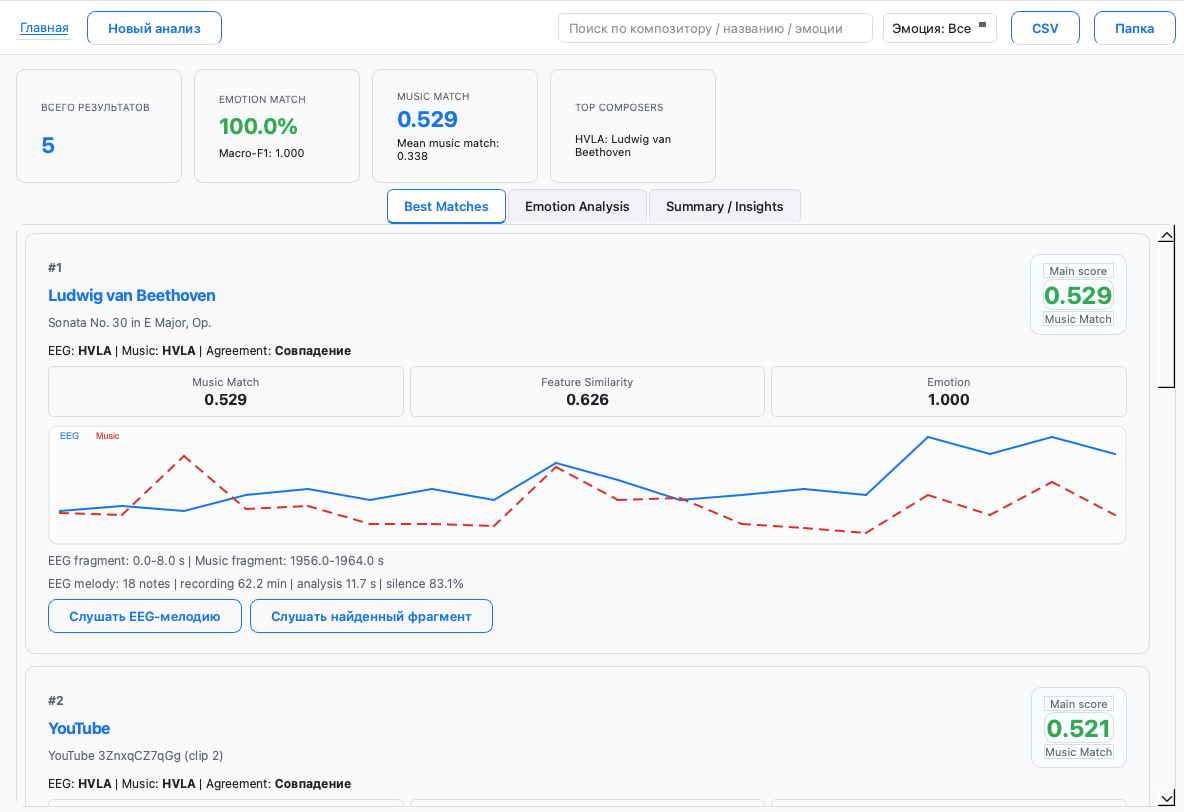
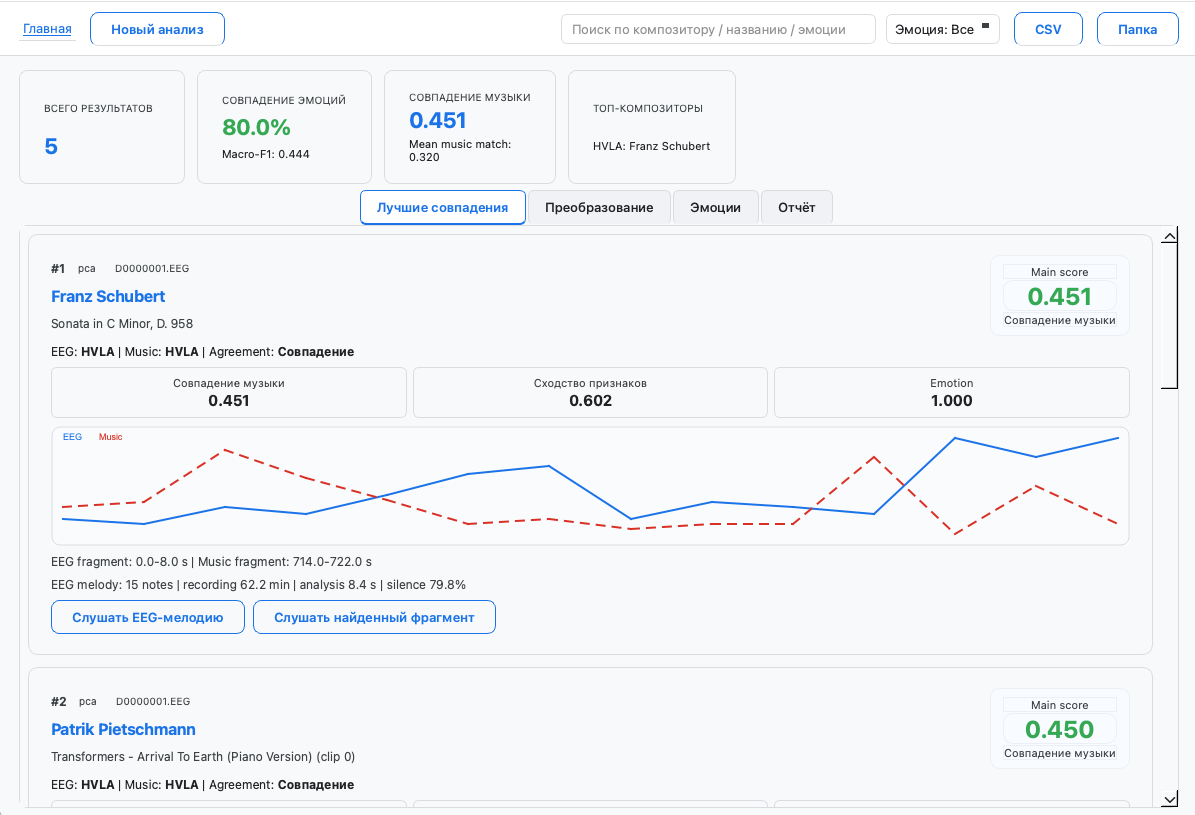
added new screenshots

diff --git a/README.md b/README.md
@@ -232,6 +232,7 @@ runs/run_018/
 
 ![Upload / Start](docs/images/upload-start.png)
 ![Best Matches](docs/images/best-matches.png)
+![Transformations](docs/images/preobr.png)
 ![Emotion Analysis](docs/images/emotion-analysis.png)
 ![Summary / Insights](docs/images/summary-insights.png)
 
